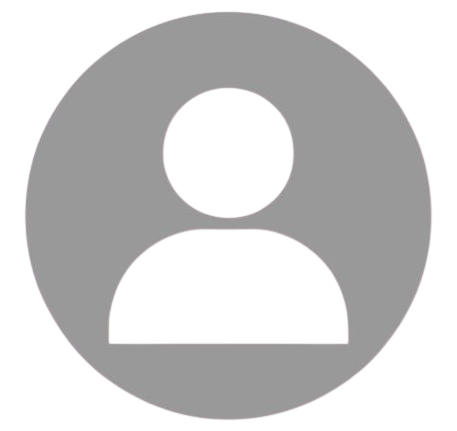
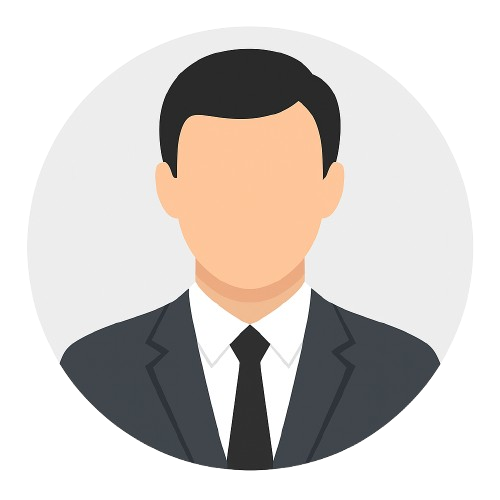
Merge branch 'main' of https://github.com/aruhant/savings_pet
# Conflicts:
#	RoyalPig/lib/profile_page.dart

diff --git a/RoyalPig/lib/profile_page.dart b/RoyalPig/lib/profile_page.dart
@@ -1,6 +1,10 @@
 import 'package:flutter/material.dart';
 import 'package:goals/rbc_investease_api_client.dart';
 import 'package:goals/user.dart';
+<<<<<<< HEAD
+
+=======
+>>>>>>> e50668e505ca2a8a55ba32f9aa0865d27253f692
 
 class ProfilePage extends StatefulWidget {
   const ProfilePage({super.key});
@@ -13,15 +17,29 @@ class _ProfilePageState extends State<ProfilePage> {
   // Profile info
   String _name = AuthService.currentClient?.name ?? "John Doe";
   String _email = AuthService.currentClient?.email ?? "johndoe@email.com";
+<<<<<<< HEAD
+
+=======
+>>>>>>> e50668e505ca2a8a55ba32f9aa0865d27253f692
 
   // Goal info
   String _goalName = "Trip to Europe";
   double _goalCost = 3000;
   double _goalSaved = 1200;
+  String _goalEndDate = "Dec 2025";
+  String _goalDescription = "Save for a trip to Europe with friends";
+
+
+<<<<<<< HEAD
 
   @override
   Widget build(BuildContext context) {
+        Client client = AuthService.currentClient!;
+=======
+  @override
+  Widget build(BuildContext context) {
     Client client = AuthService.currentClient!;
+>>>>>>> e50668e505ca2a8a55ba32f9aa0865d27253f692
     final accounts = [
       {'name': 'Cash', 'balance': client.cash},
       ...client.portfolios.map(
@@ -30,17 +48,56 @@ class _ProfilePageState extends State<ProfilePage> {
           'balance': portfolio.currentValue,
         },
       ),
+<<<<<<< HEAD
+
     ];
+
+=======
+    ];
+>>>>>>> e50668e505ca2a8a55ba32f9aa0865d27253f692
     return SafeArea(
       child: SingleChildScrollView(
         padding: const EdgeInsets.all(20),
         child: Column(
           crossAxisAlignment: CrossAxisAlignment.start,
           children: [
+<<<<<<< HEAD
+            // Page Title with Log Out button
+            Row(
+              mainAxisAlignment: MainAxisAlignment.end,
+              children: [
+                /*
+                Text(
+                  "PROFILE",
+                  style: const TextStyle(
+                    fontSize: 26,
+                    fontWeight: FontWeight.bold,
+                  ),
+                ),
+                */
+                Container(
+                  padding: const EdgeInsets.symmetric(horizontal: 12, vertical: 6),
+                  decoration: BoxDecoration(
+                    color: Colors.purple.shade50,
+                    borderRadius: BorderRadius.circular(8),
+                    border: Border.all(color: Colors.purple.shade200, width: 1),
+                  ),
+                  child: IconButton(
+                    icon: const Icon(Icons.logout, size: 20),
+                    onPressed: () {},
+                    tooltip: 'Log Out',
+                    color: const Color.fromARGB(255, 40, 39, 41),
+                    padding: EdgeInsets.zero,
+                    constraints: const BoxConstraints(),
+                  ),
+                ),
+              ],
+=======
             // Page Title
             Text(
               "PROFILE",
               style: const TextStyle(fontSize: 26, fontWeight: FontWeight.bold),
+>>>>>>> e50668e505ca2a8a55ba32f9aa0865d27253f692
             ),
             const SizedBox(height: 20),
 
@@ -50,11 +107,24 @@ class _ProfilePageState extends State<ProfilePage> {
                 children: [
                   const CircleAvatar(
                     radius: 40,
+                    backgroundImage: AssetImage('assets/profile.png'),
                     backgroundColor: Colors.grey,
-                    child: Icon(Icons.person, size: 50, color: Colors.white),
                   ),
                   const SizedBox(height: 12),
+                  Row(
+                    mainAxisSize: MainAxisSize.min,
+                    children: [
+                      Text(
+                        _name,
+                        style: const TextStyle(
+                                                  fontSize: 20,
+                      fontWeight: FontWeight.bold,
+                    ),
+                  ),
+                  Text(_email, style: const TextStyle(color: Colors.black54)),
                   Text(
+<<<<<<< HEAD
+=======
                     _name,
                     style: const TextStyle(
                       fontSize: 20,
@@ -63,6 +133,7 @@ class _ProfilePageState extends State<ProfilePage> {
                   ),
                   Text(_email, style: const TextStyle(color: Colors.black54)),
                   Text(
+>>>>>>> e50668e505ca2a8a55ba32f9aa0865d27253f692
                     "Joined " +
                         (AuthService.currentClient?.createdAt != null
                             ? DateTime.tryParse(
@@ -73,13 +144,23 @@ class _ProfilePageState extends State<ProfilePage> {
                                   : AuthService.currentClient!.createdAt
                             : "Jan 2023"),
                     style: const TextStyle(color: Colors.black38, fontSize: 12),
+<<<<<<< HEAD
+),
+                  const SizedBox(width: 8),
+                  IconButton(
+                    icon: const Icon(Icons.edit, size: 20),
+                    onPressed: () => _showEditProfileDialog(context),
+                        padding: EdgeInsets.zero,
+                        constraints: const BoxConstraints(),
+                      ),
+                    ],
+=======
+>>>>>>> e50668e505ca2a8a55ba32f9aa0865d27253f692
                   ),
                 ],
               ),
             ),
             const SizedBox(height: 24),
-
-            // Accounts card
             Container(
               padding: const EdgeInsets.all(16),
               decoration: BoxDecoration(
@@ -124,13 +205,14 @@ class _ProfilePageState extends State<ProfilePage> {
 
             // Separate Action Buttons
             _actionButton(
-              icon: Icons.edit,
-              text: "Edit Profile",
-              onTap: () => _showEditProfileDialog(context),
-            ),
-            const SizedBox(height: 12),
-            _actionButton(
               icon: Icons.flag,
+<<<<<<< HEAD
+              text: "Goal: Europe Trip",
+              subtitle: "$_goalEndDate\nSaved: \$${_goalSaved.toStringAsFixed(0)} / \$${_goalCost.toStringAsFixed(0)}",
+              onTap: () => _showEditGoalDialog(context),
+              
+              
+=======
               text: "Edit Goal",
               subtitle:
                   "$_goalName (\$${_goalSaved.toStringAsFixed(0)} / \$${_goalCost.toStringAsFixed(0)})",
@@ -144,6 +226,7 @@ class _ProfilePageState extends State<ProfilePage> {
               text: "Log Out",
               color: Colors.red,
               onTap: () {},
+>>>>>>> e50668e505ca2a8a55ba32f9aa0865d27253f692
             ),
           ],
         ),
@@ -198,6 +281,8 @@ class _ProfilePageState extends State<ProfilePage> {
     final nameController = TextEditingController(text: _goalName);
     final costController = TextEditingController(text: _goalCost.toString());
     final savedController = TextEditingController(text: _goalSaved.toString());
+    final endDateController = TextEditingController(text: _goalEndDate);
+    final descriptionController = TextEditingController(text: _goalDescription);
 
     showDialog(
       context: context,
@@ -209,6 +294,15 @@ class _ProfilePageState extends State<ProfilePage> {
             TextField(
               controller: nameController,
               decoration: const InputDecoration(labelText: "Goal Name"),
+            ),
+            // short description of goal
+            TextField(
+              controller: descriptionController,
+              decoration: const InputDecoration(labelText: "Description"),
+            ),
+            TextField(
+              controller: endDateController,
+              decoration: const InputDecoration(labelText: "End Date"),
             ),
             TextField(
               controller: costController,
@@ -231,6 +325,7 @@ class _ProfilePageState extends State<ProfilePage> {
             onPressed: () {
               setState(() {
                 _goalName = nameController.text;
+                _goalEndDate = endDateController.text;
                 _goalCost = double.tryParse(costController.text) ?? _goalCost;
                 _goalSaved =
                     double.tryParse(savedController.text) ?? _goalSaved;
@@ -288,7 +383,7 @@ class _ProfilePageState extends State<ProfilePage> {
                 ],
               ),
             ),
-            const Icon(Icons.chevron_right, color: Colors.black54),
+            const Icon(Icons.edit, color: Colors.black54, size: 18),
           ],
         ),
       ),
